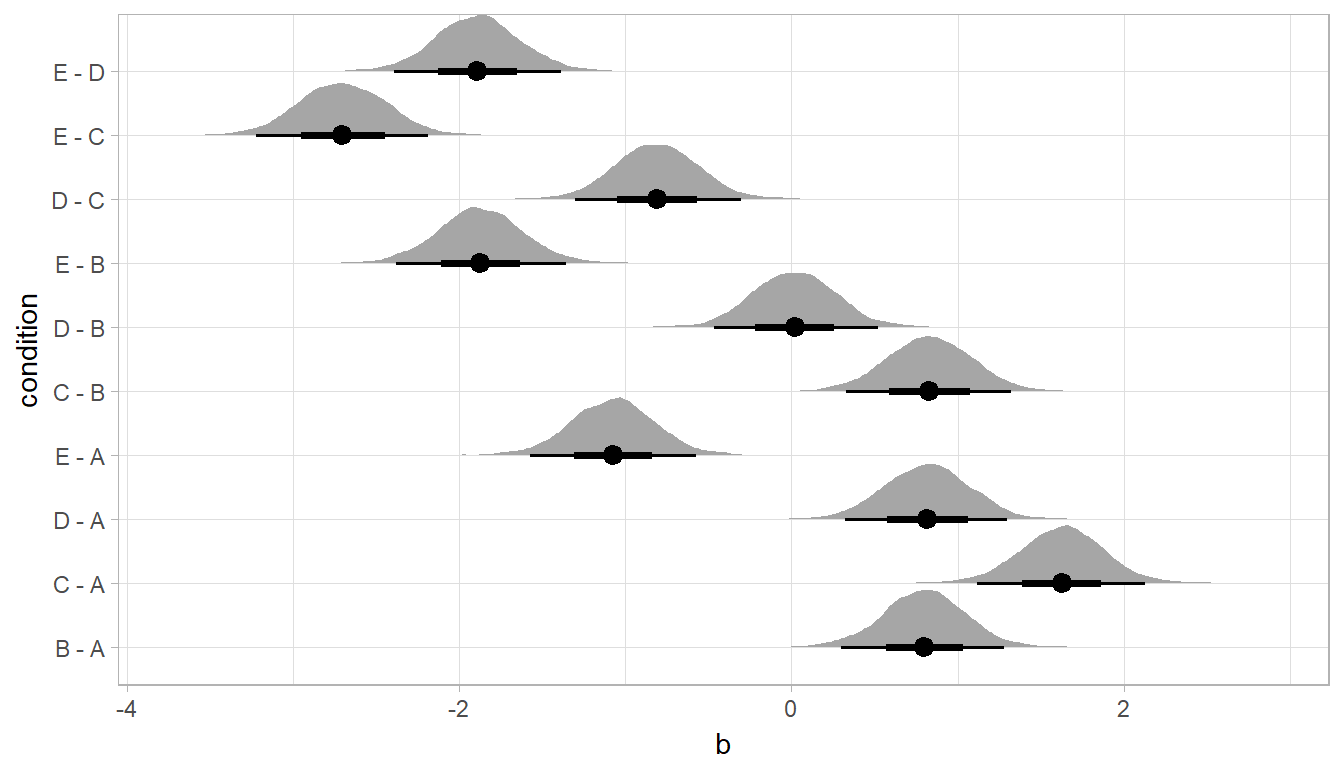
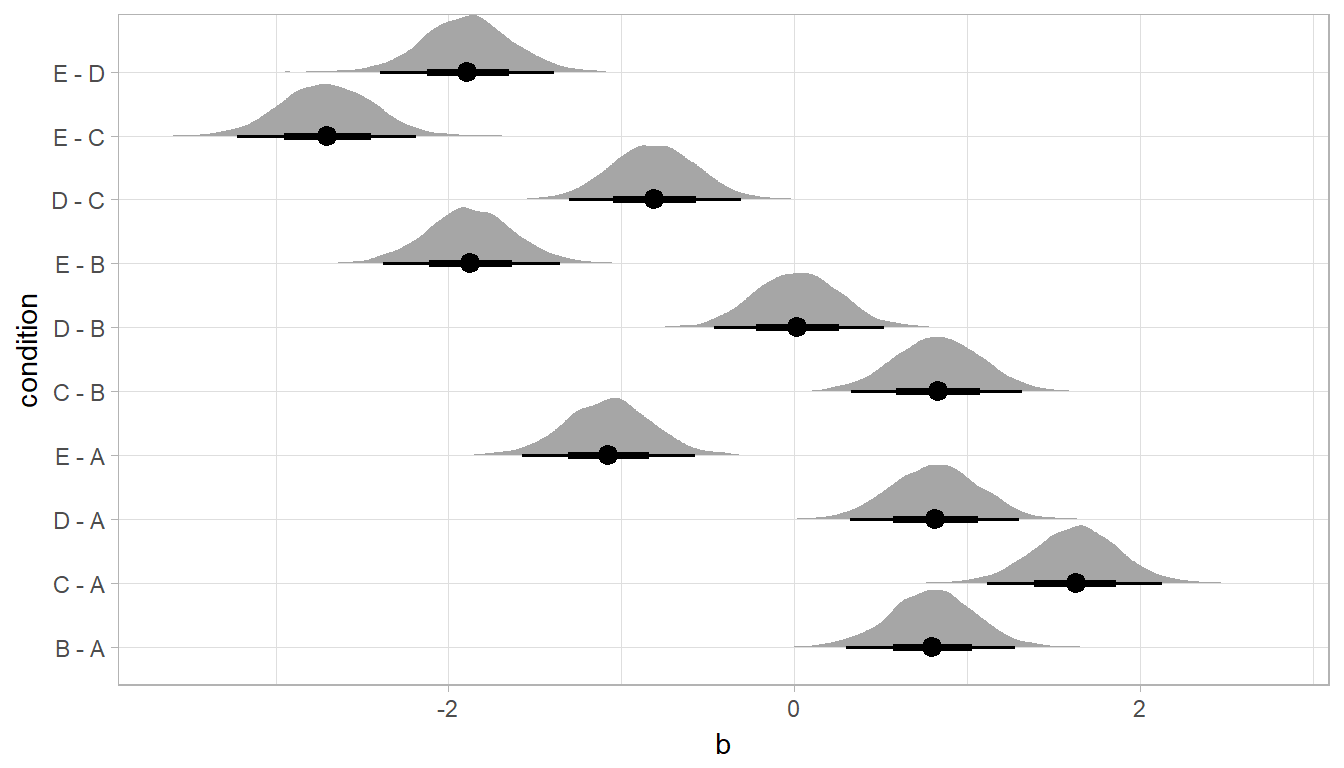
doc update

diff --git a/docs/reference/geom_eye.html b/docs/reference/geom_eye.html
@@ -108,16 +108,16 @@ in that context this is variously called an eye plot, a raindrop plot, or a viol
 preferred here).</p>
     
 
-    <pre class="usage"><span class='fu'>geom_eye</span>(<span class='kw'>mapping</span> <span class='kw'>=</span> <span class='kw'>NULL</span>, <span class='kw'>data</span> <span class='kw'>=</span> <span class='kw'>NULL</span>, <span class='kw'>stat</span> <span class='kw'>=</span> <span class='st'>"ydensity"</span>,
-  <span class='kw'>position</span> <span class='kw'>=</span> <span class='st'>"dodge"</span>, <span class='kw'>trim</span> <span class='kw'>=</span> <span class='fl'>TRUE</span>, <span class='kw'>scale</span> <span class='kw'>=</span> <span class='st'>"area"</span>, <span class='kw'>fill</span> <span class='kw'>=</span> <span class='st'>"gray65"</span>, <span class='no'>...</span>,
+    <pre class="usage"><span class='fu'>geom_eye</span>(<span class='kw'>mapping</span> <span class='kw'>=</span> <span class='kw'>NULL</span>, <span class='kw'>data</span> <span class='kw'>=</span> <span class='kw'>NULL</span>, <span class='kw'>position</span> <span class='kw'>=</span> <span class='st'>"dodge"</span>, <span class='kw'>trim</span> <span class='kw'>=</span> <span class='fl'>TRUE</span>,
+  <span class='kw'>scale</span> <span class='kw'>=</span> <span class='st'>"area"</span>, <span class='kw'>fill</span> <span class='kw'>=</span> <span class='kw'>NULL</span>, <span class='kw'>violin.color</span> <span class='kw'>=</span> <span class='fl'>NA</span>, <span class='no'>...</span>,
   <span class='kw'>point.interval</span> <span class='kw'>=</span> <span class='no'>mean_qi</span>, <span class='kw'>fun.data</span> <span class='kw'>=</span> <span class='no'>point.interval</span>, <span class='kw'>fun.args</span> <span class='kw'>=</span> <span class='fu'>list</span>(),
   <span class='kw'>.prob</span> <span class='kw'>=</span> <span class='fu'>c</span>(<span class='fl'>0.95</span>, <span class='fl'>0.66</span>), <span class='kw'>color</span> <span class='kw'>=</span> <span class='kw'>NULL</span>, <span class='kw'>size</span> <span class='kw'>=</span> <span class='kw'>NULL</span>,
   <span class='kw'>fatten.interval</span> <span class='kw'>=</span> <span class='kw'>NULL</span>, <span class='kw'>fatten.point</span> <span class='kw'>=</span> <span class='kw'>NULL</span>)
 
-<span class='fu'>geom_eyeh</span>(<span class='kw'>mapping</span> <span class='kw'>=</span> <span class='kw'>NULL</span>, <span class='kw'>data</span> <span class='kw'>=</span> <span class='kw'>NULL</span>, <span class='kw'>stat</span> <span class='kw'>=</span> <span class='st'>"xdensity"</span>,
-  <span class='kw'>position</span> <span class='kw'>=</span> <span class='st'>"dodgev"</span>, <span class='kw'>trim</span> <span class='kw'>=</span> <span class='fl'>TRUE</span>, <span class='kw'>scale</span> <span class='kw'>=</span> <span class='st'>"area"</span>, <span class='kw'>fill</span> <span class='kw'>=</span> <span class='st'>"gray65"</span>,
-  <span class='no'>...</span>, <span class='kw'>point.interval</span> <span class='kw'>=</span> <span class='no'>mean_qih</span>, <span class='kw'>fun.data</span> <span class='kw'>=</span> <span class='no'>point.interval</span>,
-  <span class='kw'>fun.args</span> <span class='kw'>=</span> <span class='fu'>list</span>(), <span class='kw'>.prob</span> <span class='kw'>=</span> <span class='fu'>c</span>(<span class='fl'>0.95</span>, <span class='fl'>0.66</span>), <span class='kw'>color</span> <span class='kw'>=</span> <span class='kw'>NULL</span>, <span class='kw'>size</span> <span class='kw'>=</span> <span class='kw'>NULL</span>,
+<span class='fu'>geom_eyeh</span>(<span class='kw'>mapping</span> <span class='kw'>=</span> <span class='kw'>NULL</span>, <span class='kw'>data</span> <span class='kw'>=</span> <span class='kw'>NULL</span>, <span class='kw'>position</span> <span class='kw'>=</span> <span class='fu'>position_dodgev</span>(),
+  <span class='kw'>trim</span> <span class='kw'>=</span> <span class='fl'>TRUE</span>, <span class='kw'>scale</span> <span class='kw'>=</span> <span class='st'>"area"</span>, <span class='kw'>fill</span> <span class='kw'>=</span> <span class='kw'>NULL</span>, <span class='kw'>violin.color</span> <span class='kw'>=</span> <span class='fl'>NA</span>, <span class='no'>...</span>,
+  <span class='kw'>point.interval</span> <span class='kw'>=</span> <span class='no'>mean_qih</span>, <span class='kw'>fun.data</span> <span class='kw'>=</span> <span class='no'>point.interval</span>, <span class='kw'>fun.args</span> <span class='kw'>=</span> <span class='fu'>list</span>(),
+  <span class='kw'>.prob</span> <span class='kw'>=</span> <span class='fu'>c</span>(<span class='fl'>0.95</span>, <span class='fl'>0.66</span>), <span class='kw'>color</span> <span class='kw'>=</span> <span class='kw'>NULL</span>, <span class='kw'>size</span> <span class='kw'>=</span> <span class='kw'>NULL</span>,
   <span class='kw'>fatten.interval</span> <span class='kw'>=</span> <span class='kw'>NULL</span>, <span class='kw'>fatten.point</span> <span class='kw'>=</span> <span class='kw'>NULL</span>)</pre>
     
     <h2 class="hasAnchor" id="arguments"><a class="anchor" href="#arguments"></a> Arguments</h2>
@@ -133,11 +133,6 @@ layer level if you are overriding the plot defaults.</p></td>
       <th>data</th>
       <td><p>A layer specific dataset - only needed if you want to override
 the plot defaults.</p></td>
-    </tr>
-    <tr>
-      <th>stat</th>
-      <td><p>Passed to <code>geom_violin</code> / <code>geom_violinh</code>. The statistical
-transformation to use on the data for this layer.</p></td>
     </tr>
     <tr>
       <th>position</th>
@@ -160,6 +155,13 @@ violins have the same maximum width.</p></td>
     <tr>
       <th>fill</th>
       <td><p>Passed to <code>geom_violin</code> / <code>geom_violinh</code>. Fill color of the violin.</p></td>
+    </tr>
+    <tr>
+      <th>violin.color</th>
+      <td><p>Passed as the <code>color</code> argument of <code>geom_violin</code> / <code>geom_violinh</code>.
+The default, <code>NA</code>, suppresses the violin outline. Set to another value to set the violin outline color
+manually, or set to <code>NULL</code> if you want the outline color of the violin to be determined by the aesthetic
+mapping.</p></td>
     </tr>
     <tr>
       <th>...</th>

diff --git a/docs/reference/geom_halfeyeh.html b/docs/reference/geom_halfeyeh.html
@@ -106,12 +106,11 @@ the mirrored verison is variously called an eye plot, a raindrop plot, or a
 violin plot; hence "half-eye" for this plot.</p>
     
 
-    <pre class="usage"><span class='fu'>geom_halfeyeh</span>(<span class='kw'>mapping</span> <span class='kw'>=</span> <span class='kw'>NULL</span>, <span class='kw'>data</span> <span class='kw'>=</span> <span class='kw'>NULL</span>, <span class='kw'>stat</span> <span class='kw'>=</span> <span class='st'>"density_ridges"</span>,
-  <span class='kw'>position</span> <span class='kw'>=</span> <span class='st'>"identity"</span>, <span class='kw'>scale</span> <span class='kw'>=</span> <span class='fl'>0.9</span>, <span class='kw'>rel_min_height</span> <span class='kw'>=</span> <span class='fl'>0</span>,
-  <span class='kw'>fill</span> <span class='kw'>=</span> <span class='st'>"gray65"</span>, <span class='no'>...</span>, <span class='kw'>point.interval</span> <span class='kw'>=</span> <span class='no'>mean_qih</span>,
-  <span class='kw'>fun.data</span> <span class='kw'>=</span> <span class='no'>point.interval</span>, <span class='kw'>fun.args</span> <span class='kw'>=</span> <span class='fu'>list</span>(), <span class='kw'>.prob</span> <span class='kw'>=</span> <span class='fu'>c</span>(<span class='fl'>0.95</span>, <span class='fl'>0.66</span>),
-  <span class='kw'>color</span> <span class='kw'>=</span> <span class='kw'>NULL</span>, <span class='kw'>size</span> <span class='kw'>=</span> <span class='kw'>NULL</span>, <span class='kw'>fatten.interval</span> <span class='kw'>=</span> <span class='kw'>NULL</span>,
-  <span class='kw'>fatten.point</span> <span class='kw'>=</span> <span class='kw'>NULL</span>)</pre>
+    <pre class="usage"><span class='fu'>geom_halfeyeh</span>(<span class='kw'>mapping</span> <span class='kw'>=</span> <span class='kw'>NULL</span>, <span class='kw'>data</span> <span class='kw'>=</span> <span class='kw'>NULL</span>, <span class='kw'>position</span> <span class='kw'>=</span> <span class='fu'>position_dodgev</span>(),
+  <span class='kw'>trim</span> <span class='kw'>=</span> <span class='fl'>TRUE</span>, <span class='kw'>scale</span> <span class='kw'>=</span> <span class='st'>"area"</span>, <span class='kw'>fill</span> <span class='kw'>=</span> <span class='kw'>NULL</span>, <span class='kw'>density.color</span> <span class='kw'>=</span> <span class='fl'>NA</span>, <span class='no'>...</span>,
+  <span class='kw'>point.interval</span> <span class='kw'>=</span> <span class='no'>mean_qih</span>, <span class='kw'>fun.data</span> <span class='kw'>=</span> <span class='no'>point.interval</span>, <span class='kw'>fun.args</span> <span class='kw'>=</span> <span class='fu'>list</span>(),
+  <span class='kw'>.prob</span> <span class='kw'>=</span> <span class='fu'>c</span>(<span class='fl'>0.95</span>, <span class='fl'>0.66</span>), <span class='kw'>color</span> <span class='kw'>=</span> <span class='kw'>NULL</span>, <span class='kw'>size</span> <span class='kw'>=</span> <span class='kw'>NULL</span>,
+  <span class='kw'>fatten.interval</span> <span class='kw'>=</span> <span class='kw'>NULL</span>, <span class='kw'>fatten.point</span> <span class='kw'>=</span> <span class='kw'>NULL</span>)</pre>
     
     <h2 class="hasAnchor" id="arguments"><a class="anchor" href="#arguments"></a> Arguments</h2>
     <table class="ref-arguments">
@@ -128,32 +127,33 @@ layer level if you are overriding the plot defaults.</p></td>
 the plot defaults.</p></td>
     </tr>
     <tr>
-      <th>stat</th>
-      <td><p>Passed to <code>geom_density_ridges</code>. The statistical
-transformation to use on the data for this layer.</p></td>
-    </tr>
-    <tr>
       <th>position</th>
       <td><p>Passed to <code>geom_density_ridges</code>. The position adjustment
 to use for overlapping points on this layer.</p></td>
     </tr>
     <tr>
-      <th>scale</th>
-      <td><p>Passed to <code>geom_density_ridges</code>. A scaling factor to scale the
-height of the densities relative to the spacing between them. A value of 1
-indicates that the maximum point of any density touches the baseline right
-above, assuming even spacing between baselines.</p></td>
+      <th>trim</th>
+      <td><p>If <code>TRUE</code> (default),
+trim the tails of the density to the range of the data. If <code>FALSE</code>,
+don't trim the tails.</p></td>
     </tr>
     <tr>
-      <th>rel_min_height</th>
-      <td><p>Densities at heights below this cutoff will be removed.
-The cutoff is measured relative to the overall maximum, so rel_min_height=0.01
-would remove everything that is 1<!-- % or less than the highest point among all -->
-densities. Default is 0, so nothing is removed.</p></td>
+      <th>scale</th>
+      <td><p>If "area" (default), all
+densities have the same area (before trimming the tails).  If "count", areas
+are scaled proportionally to the number of observations. If "width", all
+densities have the same maximum width/height.</p></td>
     </tr>
     <tr>
       <th>fill</th>
-      <td><p>Passed to <code>geom_density_ridges</code>. Fill color of the density.</p></td>
+      <td><p>Fill color of the density.</p></td>
+    </tr>
+    <tr>
+      <th>density.color</th>
+      <td><p>Outline color of the density.
+The default, <code>NA</code>, suppresses the density outline. Set to another value to set the density outline color
+manually, or set to <code>NULL</code> if you want the outline color of the density to be determined by the aesthetic
+mapping.</p></td>
     </tr>
     <tr>
       <th>...</th>
@@ -179,12 +179,12 @@ and <code>.prob</code>. See the <code>point_interval</code> family of functions.
     </tr>
     <tr>
       <th>color</th>
-      <td><p>Passed to <code>stat_summaryh</code>. Color of the point
+      <td><p>Passed to <code><a href='stat_pointinterval.html'>stat_pointintervalh</a></code>. Color of the point
 estimate and credible interval.</p></td>
     </tr>
     <tr>
       <th>size</th>
-      <td><p>Passed to <code>stat_summaryh</code>. Line weight of the point
+      <td><p>Passed to <code><a href='stat_pointinterval.html'>stat_pointintervalh</a></code>. Line weight of the point
 estimate and credible interval.</p></td>
     </tr>
     <tr>

diff --git a/docs/articles/tidybayes.html b/docs/articles/tidybayes.html
@@ -75,7 +75,7 @@
       <h1>Using Tidy Data with Bayesian Samplers</h1>
                         <h4 class="author">Matthew Kay</h4>
             
-            <h4 class="date">2017-10-11</h4>
+            <h4 class="date">2017-10-15</h4>
           </div>
 
     
@@ -246,7 +246,7 @@ model {
 ## condition_mean[5] -0.89    0.00 0.18 -1.24 -1.02 -0.89 -0.77 -0.54  4000    1
 ## response_sd        0.56    0.00 0.06  0.45  0.52  0.56  0.60  0.70  1698    1
 ## 
-## Samples were drawn using NUTS(diag_e) at Wed Oct 11 22:44:43 2017.
+## Samples were drawn using NUTS(diag_e) at Sun Oct 15 23:08:35 2017.
 ## For each parameter, n_eff is a crude measure of effective sample size,
 ## and Rhat is the potential scale reduction factor on split chains (at 
 ## convergence, Rhat=1).</code></pre>
@@ -261,24 +261,24 @@ model {
 <p>Now that we have our results, the fun begins: getting the samples out in a tidy format! The default methods in Stan for extracting samples from the data do so in a nested format:</p>
 <div class="sourceCode"><pre class="sourceCode r"><code class="sourceCode r"><span class="kw">str</span>(<span class="kw">extract</span>(m))</code></pre></div>
 <pre><code>## List of 6
-##  $ overall_mean     : num [1:4000(1d)] -0.333 -0.376 1.606 -1.304 1.093 ...
+##  $ overall_mean     : num [1:4000(1d)] 2.18 0.928 0.697 1.002 1.387 ...
 ##   ..- attr(*, "dimnames")=List of 1
 ##   .. ..$ iterations: NULL
-##  $ condition_zoffset: num [1:4000, 1:5] 0.327 0.269 -0.659 0.82 -0.543 ...
+##  $ condition_zoffset: num [1:4000, 1:5] -1.649 -0.363 -0.467 -1.307 -1.166 ...
 ##   ..- attr(*, "dimnames")=List of 2
 ##   .. ..$ iterations: NULL
 ##   .. ..$           : NULL
-##  $ response_sd      : num [1:4000(1d)] 0.51 0.561 0.538 0.542 0.575 ...
+##  $ response_sd      : num [1:4000(1d)] 0.659 0.634 0.517 0.673 0.614 ...
 ##   ..- attr(*, "dimnames")=List of 1
 ##   .. ..$ iterations: NULL
-##  $ condition_mean_sd: num [1:4000(1d)] 1.29 1.2 1.92 1.78 1.33 ...
+##  $ condition_mean_sd: num [1:4000(1d)] 1.296 0.992 1.166 0.538 0.965 ...
 ##   ..- attr(*, "dimnames")=List of 1
 ##   .. ..$ iterations: NULL
-##  $ condition_mean   : num [1:4000, 1:5] 0.0879 -0.0544 0.3391 0.158 0.3686 ...
+##  $ condition_mean   : num [1:4000, 1:5] 0.043 0.567 0.153 0.299 0.261 ...
 ##   ..- attr(*, "dimnames")=List of 2
 ##   .. ..$ iterations: NULL
 ##   .. ..$           : NULL
-##  $ lp__             : num [1:4000(1d)] 2.866 0.447 2.469 0.243 3.46 ...
+##  $ lp__             : num [1:4000(1d)] -1.89 -5.0262 3.4453 -8.365 -0.0342 ...
 ##   ..- attr(*, "dimnames")=List of 1
 ##   .. ..$ iterations: NULL</code></pre>
 <p>There are also methods for extracting samples as matrices or data frames in stan (and other model types, such as JAGS and MCMCglmm, have their own formats).</p>
@@ -476,7 +476,6 @@ model {
 <span class="st">  </span><span class="kw"><a href="../reference/spread_samples.html">spread_samples</a></span>(condition_mean[condition]) <span class="op">%&gt;%</span>
 <span class="st">  </span><span class="kw">ggplot</span>(<span class="kw">aes</span>(<span class="dt">y =</span> <span class="kw">fct_rev</span>(condition), <span class="dt">x =</span> condition_mean)) <span class="op">+</span>
 <span class="st">  </span><span class="kw"><a href="../reference/geom_halfeyeh.html">geom_halfeyeh</a></span>(<span class="dt">.prob =</span> <span class="kw">c</span>(.<span class="dv">99</span>, .<span class="dv">8</span>))</code></pre></div>
-<pre><code>## Picking joint bandwidth of 0.0302</code></pre>
 <p><img src="tidybayes_files/figure-html/unnamed-chunk-23-1.png" width="576"></p>
 </div>
 <div id="interval-estimates-with-multiple-probability-levels-the--prob-argument" class="section level3">
@@ -649,7 +648,6 @@ m <span class="op">%&gt;%</span>
 <span class="st">  </span><span class="kw"><a href="../reference/compare_levels.html">compare_levels</a></span>(condition_mean, <span class="dt">by =</span> condition) <span class="op">%&gt;%</span>
 <span class="st">  </span><span class="kw">ggplot</span>(<span class="kw">aes</span>(<span class="dt">y =</span> condition, <span class="dt">x =</span> condition_mean)) <span class="op">+</span>
 <span class="st">  </span><span class="kw"><a href="../reference/geom_halfeyeh.html">geom_halfeyeh</a></span>()</code></pre></div>
-<pre><code>## Picking joint bandwidth of 0.0425</code></pre>
 <p><img src="tidybayes_files/figure-html/unnamed-chunk-36-1.png" width="672"></p>
 </div>
 <div id="gathering-all-parameter-names-into-a-single-column-gather_samples-and-gather_terms" class="section level2">
@@ -923,7 +921,6 @@ bayes_estimates</code></pre></div>
 <span class="st">  </span><span class="kw"><a href="../reference/gather_lsmeans_samples.html">gather_lsmeans_samples</a></span>() <span class="op">%&gt;%</span>
 <span class="st">  </span><span class="kw">ggplot</span>(<span class="kw">aes</span>(<span class="dt">x =</span> estimate, <span class="dt">y =</span> contrast)) <span class="op">+</span>
 <span class="st">  </span><span class="kw"><a href="../reference/geom_halfeyeh.html">geom_halfeyeh</a></span>()</code></pre></div>
-<pre><code>## Picking joint bandwidth of 0.0429</code></pre>
 <p><img src="tidybayes_files/figure-html/unnamed-chunk-53-1.png" width="576"></p>
 </div>
 </div>

diff --git a/docs/reference/geom_interval.html b/docs/reference/geom_interval.html
@@ -183,13 +183,13 @@ its default aesthetics are <code><a href='http://www.rdocumentation.org/packages
   <span class='fu'><a href='point_interval.html'>mean_qi</a></span>(<span class='kw'>.prob</span> <span class='kw'>=</span> <span class='fu'>c</span>(<span class='fl'>.5</span>, <span class='fl'>.8</span>, <span class='fl'>.95</span>, <span class='fl'>.99</span>)) <span class='kw'>%&gt;%</span>
   <span class='fu'><a href='http://www.rdocumentation.org/packages/ggplot2/topics/ggplot'>ggplot</a></span>(<span class='fu'><a href='http://www.rdocumentation.org/packages/ggplot2/topics/aes'>aes</a></span>(<span class='kw'>y</span> <span class='kw'>=</span> <span class='no'>i</span>, <span class='kw'>x</span> <span class='kw'>=</span> <span class='no'>u_tau</span>)) +
   <span class='fu'>geom_intervalh</span>() +
-  <span class='fu'><a href='http://www.rdocumentation.org/packages/ggplot2/topics/scale_brewer'>scale_color_brewer</a></span>()</div><div class='img'><img src='geom_interval-3.png' alt='' width='700' height='432.632880098887' /></div><div class='input'>
+  <span class='fu'><a href='http://www.rdocumentation.org/packages/ggplot2/topics/scale_brewer'>scale_color_brewer</a></span>()</div><div class='img'><img src='geom_interval-1.png' alt='' width='700' height='432.632880098887' /></div><div class='input'>
 <span class='no'>RankCorr</span> <span class='kw'>%&gt;%</span>
   <span class='fu'><a href='spread_samples.html'>spread_samples</a></span>(<span class='no'>u_tau</span>[<span class='no'>i</span>]) <span class='kw'>%&gt;%</span>
   <span class='fu'><a href='point_interval.html'>mean_qi</a></span>(<span class='kw'>.prob</span> <span class='kw'>=</span> <span class='fu'>c</span>(<span class='fl'>.5</span>, <span class='fl'>.8</span>, <span class='fl'>.95</span>, <span class='fl'>.99</span>)) <span class='kw'>%&gt;%</span>
   <span class='fu'><a href='http://www.rdocumentation.org/packages/ggplot2/topics/ggplot'>ggplot</a></span>(<span class='fu'><a href='http://www.rdocumentation.org/packages/ggplot2/topics/aes'>aes</a></span>(<span class='kw'>x</span> <span class='kw'>=</span> <span class='no'>i</span>, <span class='kw'>y</span> <span class='kw'>=</span> <span class='no'>u_tau</span>)) +
   <span class='fu'>geom_interval</span>() +
-  <span class='fu'><a href='http://www.rdocumentation.org/packages/ggplot2/topics/scale_brewer'>scale_color_brewer</a></span>()</div><div class='img'><img src='geom_interval-4.png' alt='' width='700' height='432.632880098887' /></div><div class='input'>
+  <span class='fu'><a href='http://www.rdocumentation.org/packages/ggplot2/topics/scale_brewer'>scale_color_brewer</a></span>()</div><div class='img'><img src='geom_interval-2.png' alt='' width='700' height='432.632880098887' /></div><div class='input'>
 </div></pre>
   </div>
   <div class="col-md-3 hidden-xs hidden-sm" id="sidebar">

diff --git a/docs/reference/stat_pointinterval.html b/docs/reference/stat_pointinterval.html
@@ -198,11 +198,11 @@ point estimates.</p>
 <span class='no'>RankCorr</span> <span class='kw'>%&gt;%</span>
   <span class='fu'><a href='spread_samples.html'>spread_samples</a></span>(<span class='no'>u_tau</span>[<span class='no'>i</span>]) <span class='kw'>%&gt;%</span>
   <span class='fu'><a href='http://www.rdocumentation.org/packages/ggplot2/topics/ggplot'>ggplot</a></span>(<span class='fu'><a href='http://www.rdocumentation.org/packages/ggplot2/topics/aes'>aes</a></span>(<span class='kw'>y</span> <span class='kw'>=</span> <span class='no'>i</span>, <span class='kw'>x</span> <span class='kw'>=</span> <span class='no'>u_tau</span>)) +
-  <span class='fu'>stat_pointintervalh</span>(<span class='kw'>.prob</span> <span class='kw'>=</span> <span class='fu'>c</span>(<span class='fl'>.66</span>, <span class='fl'>.95</span>))</div><div class='img'><img src='stat_pointinterval-3.png' alt='' width='700' height='432.632880098887' /></div><div class='input'>
+  <span class='fu'>stat_pointintervalh</span>(<span class='kw'>.prob</span> <span class='kw'>=</span> <span class='fu'>c</span>(<span class='fl'>.66</span>, <span class='fl'>.95</span>))</div><div class='img'><img src='stat_pointinterval-1.png' alt='' width='700' height='432.632880098887' /></div><div class='input'>
 <span class='no'>RankCorr</span> <span class='kw'>%&gt;%</span>
   <span class='fu'><a href='spread_samples.html'>spread_samples</a></span>(<span class='no'>u_tau</span>[<span class='no'>i</span>]) <span class='kw'>%&gt;%</span>
   <span class='fu'><a href='http://www.rdocumentation.org/packages/ggplot2/topics/ggplot'>ggplot</a></span>(<span class='fu'><a href='http://www.rdocumentation.org/packages/ggplot2/topics/aes'>aes</a></span>(<span class='kw'>x</span> <span class='kw'>=</span> <span class='no'>i</span>, <span class='kw'>y</span> <span class='kw'>=</span> <span class='no'>u_tau</span>)) +
-  <span class='fu'>stat_pointinterval</span>(<span class='kw'>.prob</span> <span class='kw'>=</span> <span class='fu'>c</span>(<span class='fl'>.66</span>, <span class='fl'>.95</span>))</div><div class='img'><img src='stat_pointinterval-4.png' alt='' width='700' height='432.632880098887' /></div><div class='input'>
+  <span class='fu'>stat_pointinterval</span>(<span class='kw'>.prob</span> <span class='kw'>=</span> <span class='fu'>c</span>(<span class='fl'>.66</span>, <span class='fl'>.95</span>))</div><div class='img'><img src='stat_pointinterval-2.png' alt='' width='700' height='432.632880098887' /></div><div class='input'>
 </div></pre>
   </div>
   <div class="col-md-3 hidden-xs hidden-sm" id="sidebar">

diff --git a/docs/reference/geom_pointinterval.html b/docs/reference/geom_pointinterval.html
@@ -197,12 +197,12 @@ geoms) or <code>show.legend = TRUE</code>.</p>
   <span class='fu'><a href='spread_samples.html'>spread_samples</a></span>(<span class='no'>u_tau</span>[<span class='no'>i</span>]) <span class='kw'>%&gt;%</span>
   <span class='fu'><a href='point_interval.html'>mean_qi</a></span>(<span class='kw'>.prob</span> <span class='kw'>=</span> <span class='fu'>c</span>(<span class='fl'>.8</span>, <span class='fl'>.95</span>)) <span class='kw'>%&gt;%</span>
   <span class='fu'><a href='http://www.rdocumentation.org/packages/ggplot2/topics/ggplot'>ggplot</a></span>(<span class='fu'><a href='http://www.rdocumentation.org/packages/ggplot2/topics/aes'>aes</a></span>(<span class='kw'>y</span> <span class='kw'>=</span> <span class='no'>i</span>, <span class='kw'>x</span> <span class='kw'>=</span> <span class='no'>u_tau</span>)) +
-  <span class='fu'>geom_pointintervalh</span>()</div><div class='img'><img src='geom_pointinterval-3.png' alt='' width='700' height='432.632880098887' /></div><div class='input'>
+  <span class='fu'>geom_pointintervalh</span>()</div><div class='img'><img src='geom_pointinterval-1.png' alt='' width='700' height='432.632880098887' /></div><div class='input'>
 <span class='no'>RankCorr</span> <span class='kw'>%&gt;%</span>
   <span class='fu'><a href='spread_samples.html'>spread_samples</a></span>(<span class='no'>u_tau</span>[<span class='no'>i</span>]) <span class='kw'>%&gt;%</span>
   <span class='fu'><a href='point_interval.html'>mean_qi</a></span>(<span class='kw'>.prob</span> <span class='kw'>=</span> <span class='fu'>c</span>(<span class='fl'>.8</span>, <span class='fl'>.95</span>)) <span class='kw'>%&gt;%</span>
   <span class='fu'><a href='http://www.rdocumentation.org/packages/ggplot2/topics/ggplot'>ggplot</a></span>(<span class='fu'><a href='http://www.rdocumentation.org/packages/ggplot2/topics/aes'>aes</a></span>(<span class='kw'>x</span> <span class='kw'>=</span> <span class='no'>i</span>, <span class='kw'>y</span> <span class='kw'>=</span> <span class='no'>u_tau</span>)) +
-  <span class='fu'>geom_pointinterval</span>()</div><div class='img'><img src='geom_pointinterval-4.png' alt='' width='700' height='432.632880098887' /></div><div class='input'>
+  <span class='fu'>geom_pointinterval</span>()</div><div class='img'><img src='geom_pointinterval-2.png' alt='' width='700' height='432.632880098887' /></div><div class='input'>
 </div></pre>
   </div>
   <div class="col-md-3 hidden-xs hidden-sm" id="sidebar">

diff --git a/docs/reference/stat_interval.html b/docs/reference/stat_interval.html
@@ -199,12 +199,12 @@ point estimates and intervals.</p>
   <span class='fu'><a href='spread_samples.html'>spread_samples</a></span>(<span class='no'>u_tau</span>[<span class='no'>i</span>]) <span class='kw'>%&gt;%</span>
   <span class='fu'><a href='http://www.rdocumentation.org/packages/ggplot2/topics/ggplot'>ggplot</a></span>(<span class='fu'><a href='http://www.rdocumentation.org/packages/ggplot2/topics/aes'>aes</a></span>(<span class='kw'>y</span> <span class='kw'>=</span> <span class='no'>i</span>, <span class='kw'>x</span> <span class='kw'>=</span> <span class='no'>u_tau</span>)) +
   <span class='fu'>stat_intervalh</span>() +
-  <span class='fu'><a href='http://www.rdocumentation.org/packages/ggplot2/topics/scale_brewer'>scale_color_brewer</a></span>()</div><div class='img'><img src='stat_interval-3.png' alt='' width='700' height='432.632880098887' /></div><div class='input'>
+  <span class='fu'><a href='http://www.rdocumentation.org/packages/ggplot2/topics/scale_brewer'>scale_color_brewer</a></span>()</div><div class='img'><img src='stat_interval-1.png' alt='' width='700' height='432.632880098887' /></div><div class='input'>
 <span class='no'>RankCorr</span> <span class='kw'>%&gt;%</span>
   <span class='fu'><a href='spread_samples.html'>spread_samples</a></span>(<span class='no'>u_tau</span>[<span class='no'>i</span>]) <span class='kw'>%&gt;%</span>
   <span class='fu'><a href='http://www.rdocumentation.org/packages/ggplot2/topics/ggplot'>ggplot</a></span>(<span class='fu'><a href='http://www.rdocumentation.org/packages/ggplot2/topics/aes'>aes</a></span>(<span class='kw'>x</span> <span class='kw'>=</span> <span class='no'>i</span>, <span class='kw'>y</span> <span class='kw'>=</span> <span class='no'>u_tau</span>)) +
   <span class='fu'>stat_interval</span>() +
-  <span class='fu'><a href='http://www.rdocumentation.org/packages/ggplot2/topics/scale_brewer'>scale_color_brewer</a></span>()</div><div class='img'><img src='stat_interval-4.png' alt='' width='700' height='432.632880098887' /></div><div class='input'>
+  <span class='fu'><a href='http://www.rdocumentation.org/packages/ggplot2/topics/scale_brewer'>scale_color_brewer</a></span>()</div><div class='img'><img src='stat_interval-2.png' alt='' width='700' height='432.632880098887' /></div><div class='input'>
 </div></pre>
   </div>
   <div class="col-md-3 hidden-xs hidden-sm" id="sidebar">

diff --git a/docs/articles/tidy-rstanarm.html b/docs/articles/tidy-rstanarm.html
@@ -75,7 +75,7 @@
       <h1>Extracting tidy samples from rstanarm</h1>
                         <h4 class="author">Matthew Kay</h4>
             
-            <h4 class="date">2017-10-11</h4>
+            <h4 class="date">2017-10-15</h4>
           </div>
 
     
@@ -588,7 +588,6 @@ m <span class="op">%&gt;%</span>
 <span class="st">  </span><span class="kw"><a href="../reference/compare_levels.html">compare_levels</a></span>(b, <span class="dt">by =</span> condition) <span class="op">%&gt;%</span>
 <span class="st">  </span><span class="kw">ggplot</span>(<span class="kw">aes</span>(<span class="dt">y =</span> condition, <span class="dt">x =</span> b)) <span class="op">+</span>
 <span class="st">  </span><span class="kw"><a href="../reference/geom_halfeyeh.html">geom_halfeyeh</a></span>()</code></pre></div>
-<pre><code>## Picking joint bandwidth of 0.0431</code></pre>
 <p><img src="tidy-rstanarm_files/figure-html/unnamed-chunk-32-1.png" width="672"></p>
 <p>If you prefer “caterpillar” plots, ordered by something like the mean of the difference, you can reorder the factor before plotting:</p>
 <div class="sourceCode"><pre class="sourceCode r"><code class="sourceCode r"><span class="co">#N.B. the syntax for compare_levels is experimental and may change</span>
@@ -599,7 +598,6 @@ m <span class="op">%&gt;%</span>
 <span class="st">  </span><span class="kw">ggplot</span>(<span class="kw">aes</span>(<span class="dt">y =</span> condition, <span class="dt">x =</span> b)) <span class="op">+</span>
 <span class="st">  </span><span class="kw"><a href="../reference/geom_halfeyeh.html">geom_halfeyeh</a></span>() <span class="op">+</span>
 <span class="st">  </span><span class="kw">geom_vline</span>(<span class="dt">xintercept =</span> <span class="dv">0</span>, <span class="dt">linetype =</span> <span class="st">"dashed"</span>) </code></pre></div>
-<pre><code>## Picking joint bandwidth of 0.0431</code></pre>
 <p><img src="tidy-rstanarm_files/figure-html/unnamed-chunk-33-1.png" width="672"></p>
 </div>
 </div>

diff --git a/docs/reference/stat_lineribbon.html b/docs/reference/stat_lineribbon.html
@@ -189,7 +189,7 @@ already been summarized using a <code><a href='point_interval.html'>point_interv
   <span class='fu'><a href='http://dplyr.tidyverse.org/reference/do.html'>do</a></span>(<span class='fu'><a href='http://dplyr.tidyverse.org/reference/reexports.html'>data_frame</a></span>(<span class='kw'>y</span> <span class='kw'>=</span> <span class='fu'>rnorm</span>(<span class='fl'>100</span>, <span class='no'>.</span>$<span class='no'>x</span>))) <span class='kw'>%&gt;%</span>
   <span class='fu'><a href='http://www.rdocumentation.org/packages/ggplot2/topics/ggplot'>ggplot</a></span>(<span class='fu'><a href='http://www.rdocumentation.org/packages/ggplot2/topics/aes'>aes</a></span>(<span class='kw'>x</span> <span class='kw'>=</span> <span class='no'>x</span>, <span class='kw'>y</span> <span class='kw'>=</span> <span class='no'>y</span>)) +
   <span class='fu'>stat_lineribbon</span>() +
-  <span class='fu'><a href='http://www.rdocumentation.org/packages/ggplot2/topics/scale_brewer'>scale_fill_brewer</a></span>()</div><div class='img'><img src='stat_lineribbon-2.png' alt='' width='700' height='432.632880098887' /></div><div class='input'>
+  <span class='fu'><a href='http://www.rdocumentation.org/packages/ggplot2/topics/scale_brewer'>scale_fill_brewer</a></span>()</div><div class='img'><img src='stat_lineribbon-1.png' alt='' width='700' height='432.632880098887' /></div><div class='input'>
 </div></pre>
   </div>
   <div class="col-md-3 hidden-xs hidden-sm" id="sidebar">

diff --git a/docs/reference/geom_lineribbon.html b/docs/reference/geom_lineribbon.html
@@ -180,7 +180,7 @@ on.</p>
   <span class='fu'><a href='http://www.rdocumentation.org/packages/ggplot2/topics/ggplot'>ggplot</a></span>(<span class='fu'><a href='http://www.rdocumentation.org/packages/ggplot2/topics/aes'>aes</a></span>(<span class='kw'>x</span> <span class='kw'>=</span> <span class='no'>x</span>, <span class='kw'>y</span> <span class='kw'>=</span> <span class='no'>y</span>)) +
   <span class='co'># automatically uses aes(ymin = conf.low, ymax = conf.high, fill = fct_rev(ordered(.prob)))</span>
   <span class='fu'>geom_lineribbon</span>() +
-  <span class='fu'><a href='http://www.rdocumentation.org/packages/ggplot2/topics/scale_brewer'>scale_fill_brewer</a></span>()</div><div class='img'><img src='geom_lineribbon-2.png' alt='' width='700' height='432.632880098887' /></div><div class='input'>
+  <span class='fu'><a href='http://www.rdocumentation.org/packages/ggplot2/topics/scale_brewer'>scale_fill_brewer</a></span>()</div><div class='img'><img src='geom_lineribbon-1.png' alt='' width='700' height='432.632880098887' /></div><div class='input'>
 </div></pre>
   </div>
   <div class="col-md-3 hidden-xs hidden-sm" id="sidebar">
